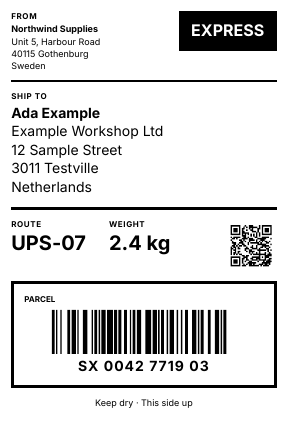
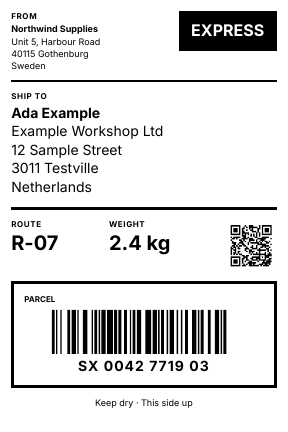
docs: no carrier names in the shipping label and packing slip examples

Changed region(s): [[0.0312, 0.5417, 0.3125, 0.6019]]

diff --git a/examples/shipping_label.rb b/examples/shipping_label.rb
@@ -16,7 +16,7 @@ class ExampleShippingLabel < Stationery::Document
   metadata title: "Shipping label", creator: "stationery example"
 
   def self.preview
-    new(parcel: "SX 0042 7719 03", service: "EXPRESS", weight: "2.4 kg", route: "UPS-07",
+    new(parcel: "SX 0042 7719 03", service: "EXPRESS", weight: "2.4 kg", route: "R-07",
         from: ["Northwind Supplies", "Unit 5, Harbour Road", "40115 Gothenburg", "Sweden"],
         to: ["Ada Example", "Example Workshop Ltd", "12 Sample Street", "3011 Testville", "Netherlands"])
   end

diff --git a/examples/packing_slip.rb b/examples/packing_slip.rb
@@ -88,7 +88,7 @@ class ExamplePackingSlip < Stationery::Document
     spacer 4
     text @order, size: 8, color: MUTED, letter_spacing: 2
     spacer 8
-    text "Shipped 27 September 2026 · 3 parcels · DHL Freight", size: 8, color: MUTED
+    text "Shipped 27 September 2026 · 3 parcels · Example Freight", size: 8, color: MUTED
   end
 
   def items_table
